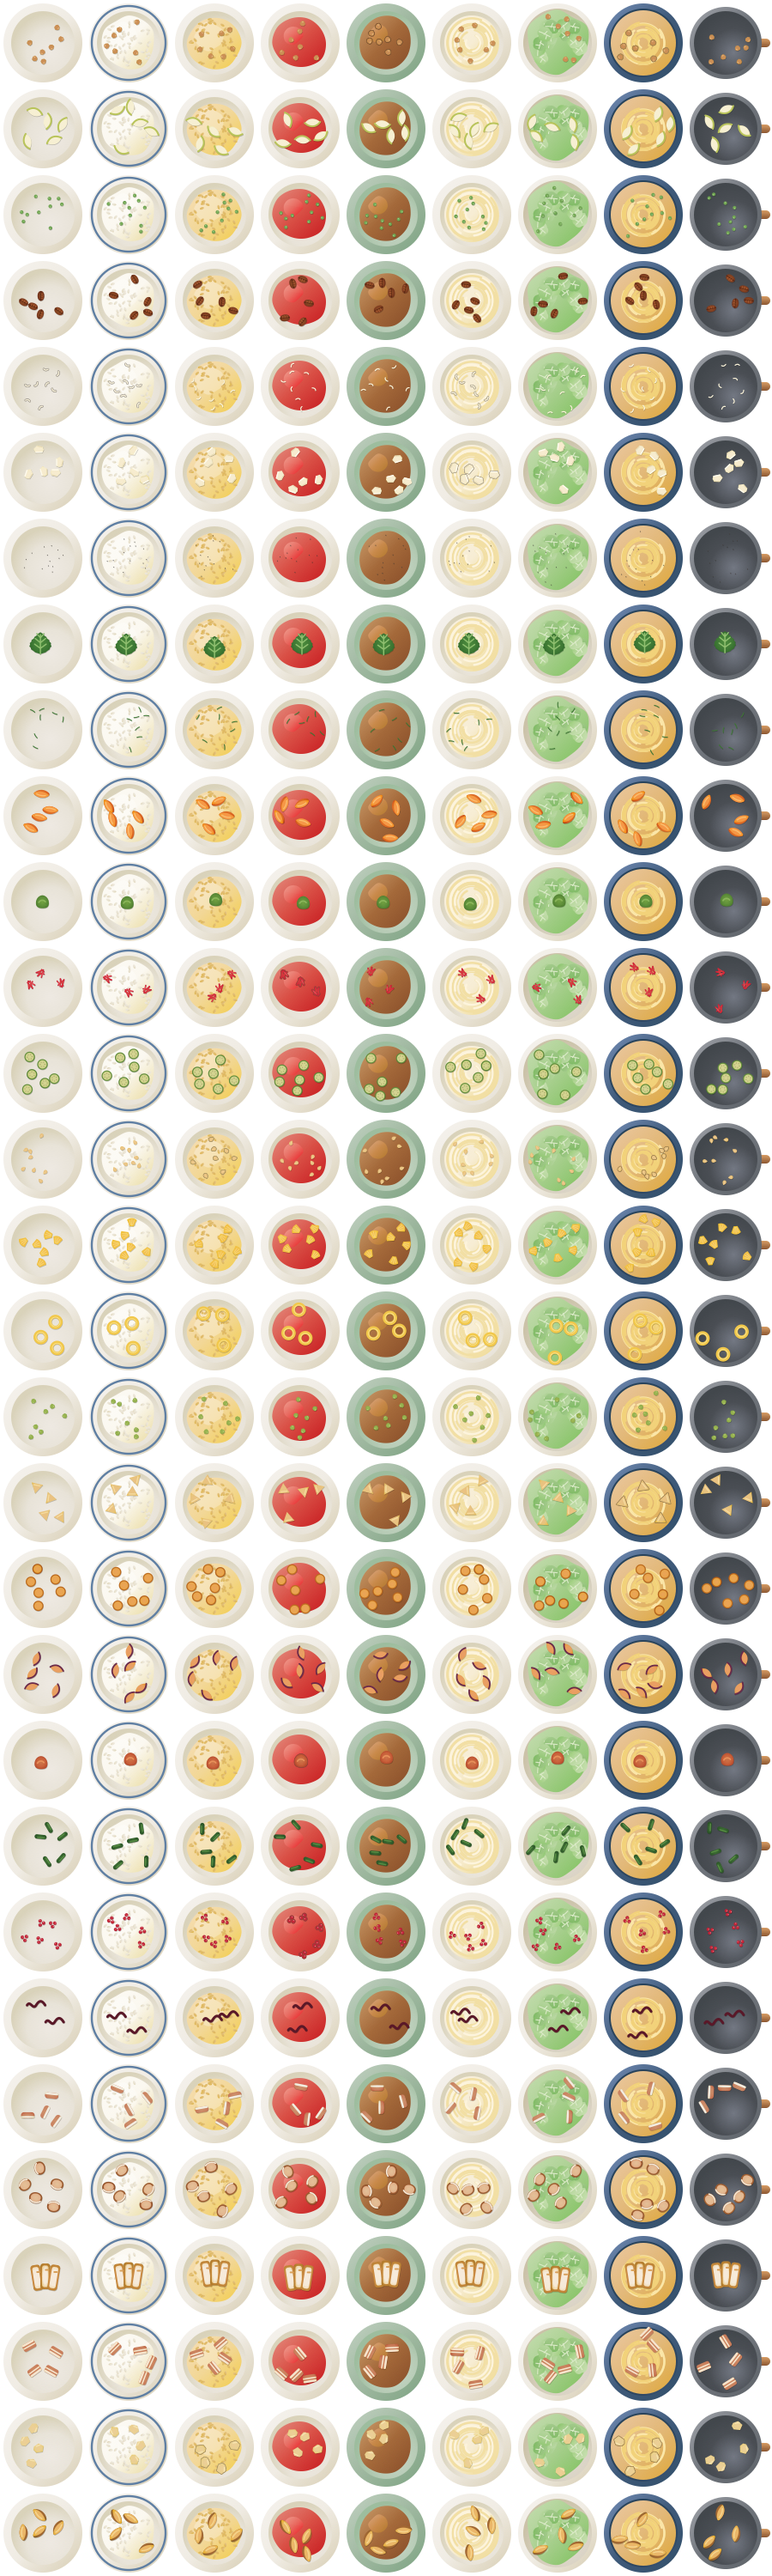
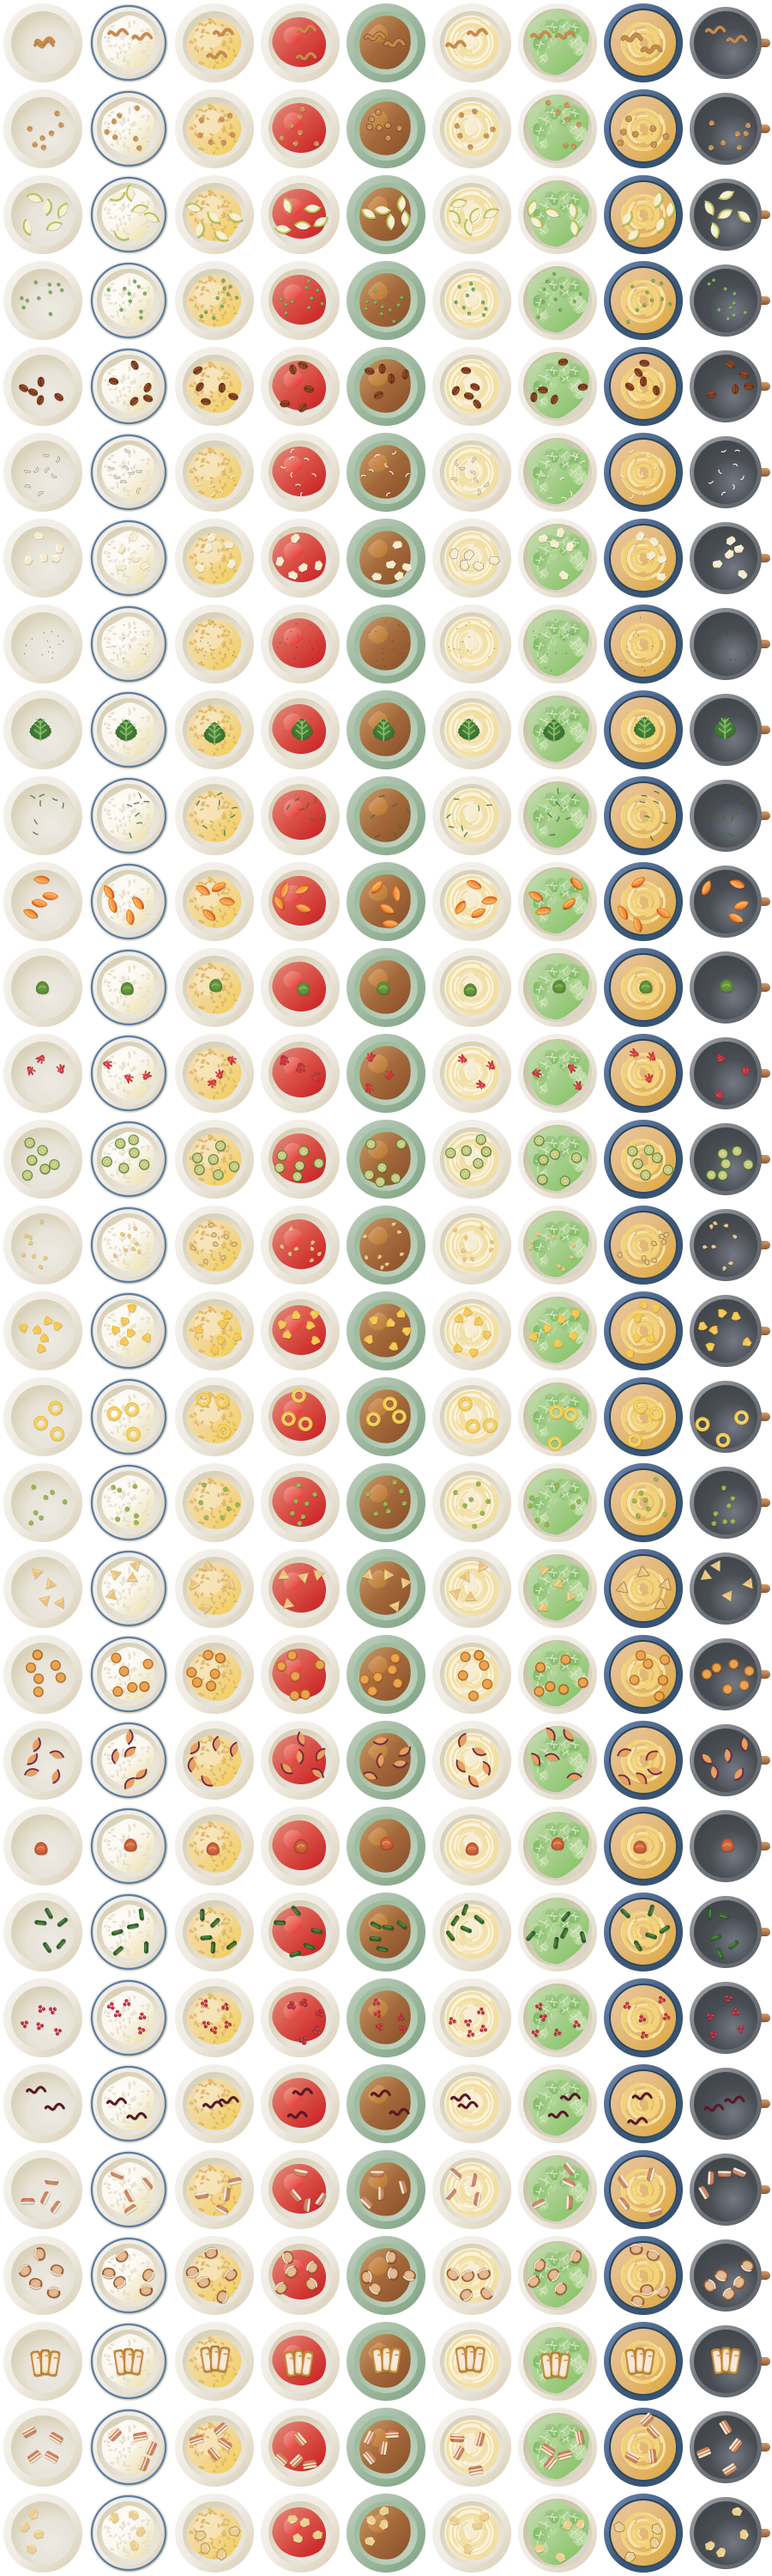
Add pea shoots as an ingredient

diff --git a/CulinaryIntelligence/Sources/CulinaryIntelligence/Models/IconCatalog.swift b/CulinaryIntelligence/Sources/CulinaryIntelligence/Models/IconCatalog.swift
@@ -90,6 +90,7 @@ public nonisolated enum IngredientCategory: String, CaseIterable, Identifiable, 
                 "okra",
                 "onion",
                 "parsnip",
+                "pea-shoots",
                 "peas",
                 "perilla-leaves",
                 "poblano",
@@ -872,7 +873,9 @@ public nonisolated enum IconCatalog {
         "dill pickles": "pickles",
         "dinner rolls": "buns",
         "dorade": "sea-bream",
+        "dou miao": "pea-shoots",
         "double cream": "cream",
+        "doumiao": "pea-shoots",
         "dragonfruit": "dragon-fruit",
         "dried apricots": "apricot",
         "dried cranberries": "cranberry",
@@ -1110,6 +1113,10 @@ public nonisolated enum IconCatalog {
         "pastry flour": "cake-flour",
         "paua": "abalone",
         "pawpaw": "papaya",
+        "pea shoot": "pea-shoots",
+        "pea sprouts": "pea-shoots",
+        "pea tendrils": "pea-shoots",
+        "pea tips": "pea-shoots",
         "pepitas": "pumpkin-seeds",
         "perilla": "perilla-leaves",
         "petit tomato": "cherry-tomato",
@@ -1232,6 +1239,8 @@ public nonisolated enum IconCatalog {
         "snap peas": "snow-peas",
         "snapper": "sea-bream",
         "snapper fillet": "sea-bream-fillet",
+        "snow pea shoots": "pea-shoots",
+        "snow pea sprouts": "pea-shoots",
         "soft flour": "cake-flour",
         "sole": "flounder",
         "sole fillet": "flounder-fillet",
@@ -1306,11 +1315,14 @@ public nonisolated enum IconCatalog {
         "thick fried tofu": "atsuage",
         "thin wheat noodles": "somen",
         "tinned tuna": "canned-tuna",
+        "tobyo": "pea-shoots",
         "tofu dregs": "okara",
         "tofu skin": "yuba",
         "togarashi": "shichimi",
         "tomatillos": "tomatillo",
         "tomato pasta sauce": "marinara-sauce",
+        "tomyo": "pea-shoots",
+        "toumyou": "pea-shoots",
         "tsubuan": "anko",
         "tteokbokki rice cakes": "tteok",
         "tube fish cake": "chikuwa",

diff --git a/Assets/DishIcons/catalog.py b/Assets/DishIcons/catalog.py
@@ -103,6 +103,7 @@ V["nira"] = {"cut": p(julienne("#3f6b3a", "#5f8f45"), 11, 7)}
 V["okra"] = {"slices": p('<path d="M8 1.5 10 4.5 13.6 4.8 12.4 8 13.6 11.2 10 11.5 8 14.5 6 11.5 2.4 11.2 3.6 8 2.4 4.8 6 4.5Z" fill="#5f9a45"/><circle cx="8" cy="8" r="3.2" fill="#e8efcf"/>' + "".join(f'<circle cx="{f(8 + 2 * math.cos(math.tau * i / 5))}" cy="{f(8 + 2 * math.sin(math.tau * i / 5))}" r="0.6" fill="#c5dea8"/>' for i in range(5)), 10, 6)}
 V["onion"] = {"rings": p(ring("#efe2c4", "#f8f2e2", 2.2), 11, 5), "diced": p(dice("#f4ecd6", "#fbf7ea"), 7, 9), "caramelized": p(shreds("#b9763c", "#d39a5a"), 12, 5)}
 V["parsnip"] = {"coins": p(round_slice("#e2cfa0", "#f2e6c4", core="#e8d6a8"), 11, 6), "roasted": p(chunk("#d9a85c", "#f0d49a"), 12, 4)}
+V["pea-shoots"] = {"shoots": p(pea_shoot("#bfe08e", "#5fa83f", "#7fb85a"), 14, 5)}
 V["peas"] = {"peas": p(small_round("#6aa04f", "#a8cf8e"), 6, 10)}
 V["potato"] = {"chunks": p(chunk("#ead08f", "#f6e3b0"), 12, 4), "wedges": p(thick_wedge("#9a6630", "#e9b860", "#f6d68e"), 15, 4), "slices": p(round_slice("#e6c36f", "#f4dc9a"), 13, 4), "mash": fl(lambda r: smooth(r, "#f2e2b0", "#faf0d0", ridges="#e4cf92"), PLATES + BOWLS)}
 V["pumpkin"] = {"cubes": p(dice("#f08a2b", "#f7ad5c"), 11, 6), "soup": fl(lambda r: soup(r, "#f08a2b", "#f7ad5c"), BOWLS)}

diff --git a/Assets/DishIcons/draw.py b/Assets/DishIcons/draw.py
@@ -653,6 +653,11 @@ def sprout(stem, leaf):
     return f'<path d="M4 15C5 11 6.5 8 8.6 5.6" stroke="{stem}" stroke-width="1.2" fill="none" stroke-linecap="round"/><ellipse cx="7.2" cy="3.6" rx="2.3" ry="1.5" fill="{leaf}" transform="rotate(-30 7.2 3.6)"/><ellipse cx="11" cy="5.2" rx="2.3" ry="1.5" fill="{leaf}" transform="rotate(20 11 5.2)"/>'
 
 
+def pea_shoot(stem, leaf, tendril):
+    """A cut length of pea shoot: a pale green stem with round leaves at the top and a curled tendril."""
+    return f'<path d="M2.5 14 10 5" stroke="{stem}" stroke-width="1.4" stroke-linecap="round"/><path d="M10.4 4.6c.6-2 2.6-3 4-2 1 .8.2 2.2-.8 1.6" stroke="{tendril}" stroke-width="0.8" fill="none" stroke-linecap="round"/><ellipse cx="7.4" cy="5.2" rx="2.8" ry="2" fill="{leaf}" transform="rotate(-40 7.4 5.2)"/><ellipse cx="11.6" cy="8" rx="2.8" ry="2" fill="{leaf}" transform="rotate(20 11.6 8)"/><ellipse cx="4.6" cy="9.6" rx="2.2" ry="1.6" fill="{leaf}" transform="rotate(-20 4.6 9.6)"/>'
+
+
 def maitake(cap, edge, stem):
     """A torn piece of hen of the woods: overlapping fronds on a pale branching base."""
     s = f'<path d="M8 15 5 9.5M8 15l3-5.2M8 15V6" stroke="{stem}" stroke-width="1.8" stroke-linecap="round"/>'
